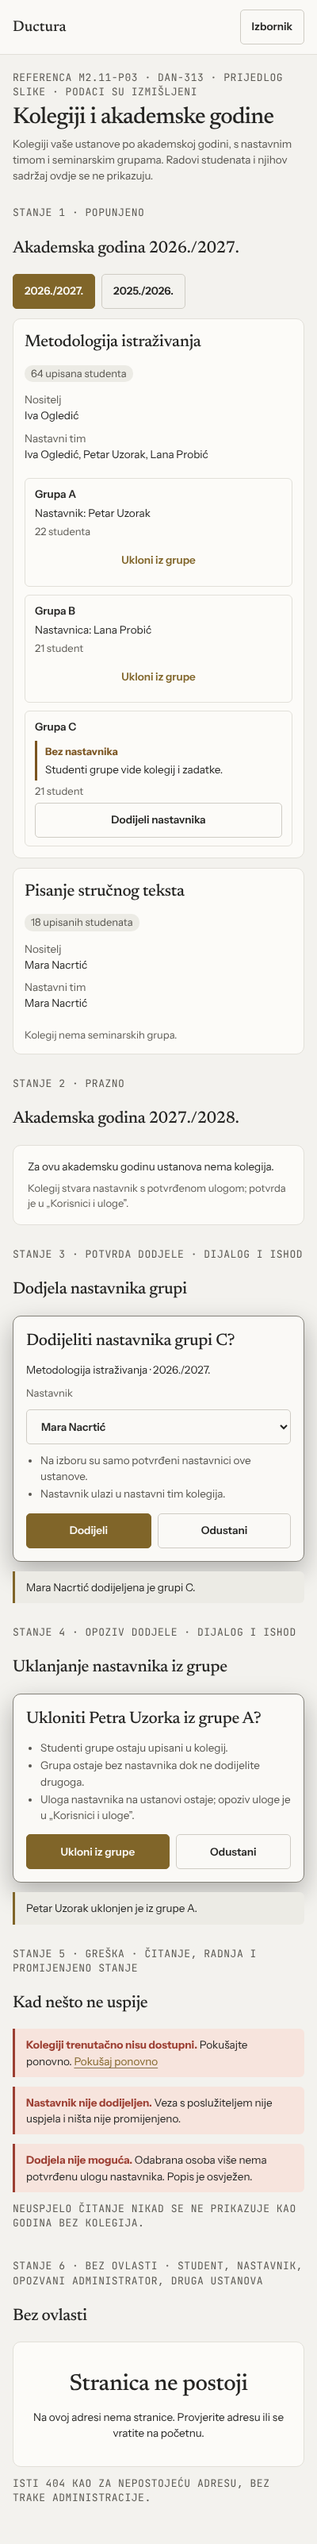
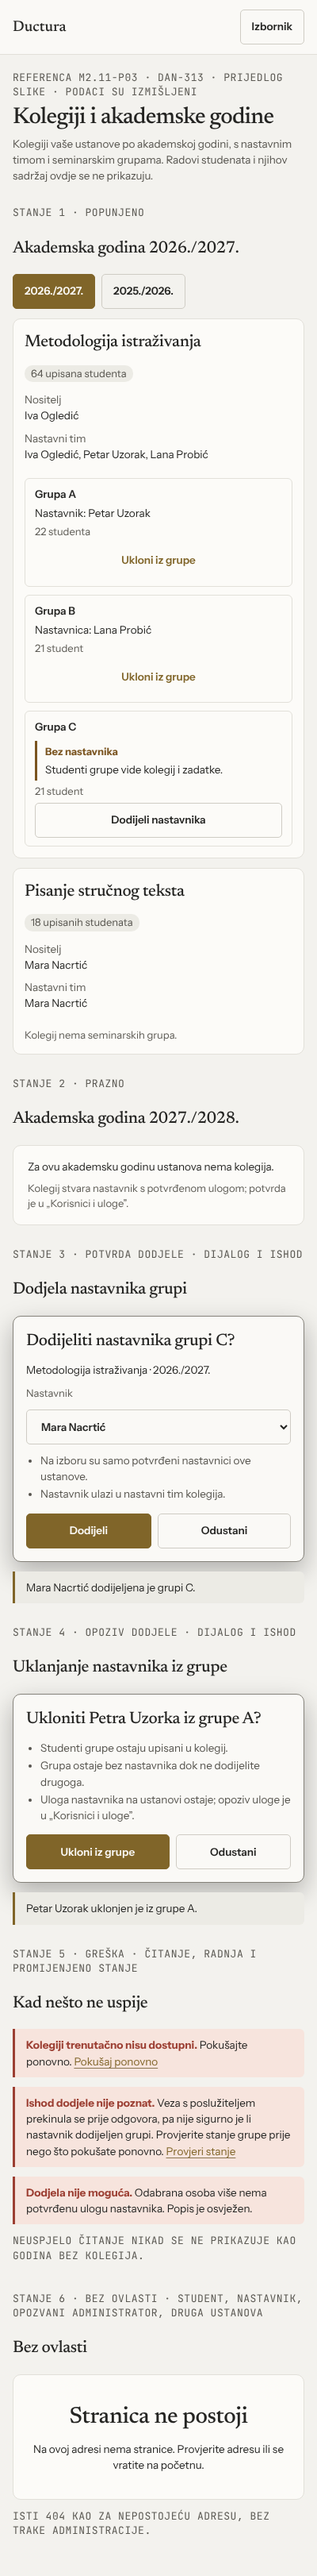
fix: show unknown outcome after a dropped connection in M2.11 references (DAN-313)
Claude-Session: https://claude.ai/code/session_011GCKG9DPbqrNVnZyCmTEnY

diff --git a/docs/design/ductura/m2-reference/a02-korisnici-i-uloge.html b/docs/design/ductura/m2-reference/a02-korisnici-i-uloge.html
@@ -121,10 +121,10 @@
       <p class="alert" role="alert"><strong>Popis korisnika trenutačno nije dostupan.</strong> Pokušajte ponovno. <a href="#">Pokušaj ponovno</a></p>
       <div class="dialog" role="dialog" aria-modal="true" aria-labelledby="d-greska">
         <h3 id="d-greska">Potvrditi ulogu nastavnika za Lanu Probić?</h3>
-        <p class="alert" role="alert"><strong>Uloga nije potvrđena.</strong> Veza s poslužiteljem nije uspjela i ništa nije promijenjeno.</p>
+        <p class="alert" role="alert"><strong>Ishod nije poznat.</strong> Veza s poslužiteljem prekinula se prije odgovora, pa nije sigurno je li uloga potvrđena. Provjerite stanje prije nego što pokušate ponovno.</p>
         <div class="buttons">
-          <button class="btn" type="button">Pokušaj ponovno</button>
-          <button class="btn secondary" type="button">Odustani</button>
+          <button class="btn" type="button">Provjeri stanje</button>
+          <button class="btn secondary" type="button">Zatvori</button>
         </div>
       </div>
       <p class="alert" role="alert"><strong>Potvrda nije moguća.</strong> Ova osoba više ne čeka potvrdu na vašoj ustanovi. Popis je osvježen.</p>

diff --git a/docs/design/ductura/m2-reference/a03-kolegiji-tim-i-grupe.html b/docs/design/ductura/m2-reference/a03-kolegiji-tim-i-grupe.html
@@ -130,7 +130,7 @@
       <div class="ref-tag">Stanje 5 · greška · čitanje, radnja i promijenjeno stanje</div>
       <h2 id="h-greska">Kad nešto ne uspije</h2>
       <p class="alert" role="alert"><strong>Kolegiji trenutačno nisu dostupni.</strong> Pokušajte ponovno. <a href="#">Pokušaj ponovno</a></p>
-      <p class="alert" role="alert"><strong>Nastavnik nije dodijeljen.</strong> Veza s poslužiteljem nije uspjela i ništa nije promijenjeno.</p>
+      <p class="alert" role="alert"><strong>Ishod dodjele nije poznat.</strong> Veza s poslužiteljem prekinula se prije odgovora, pa nije sigurno je li nastavnik dodijeljen grupi. Provjerite stanje grupe prije nego što pokušate ponovno. <a href="#">Provjeri stanje</a></p>
       <p class="alert" role="alert"><strong>Dodjela nije moguća.</strong> Odabrana osoba više nema potvrđenu ulogu nastavnika. Popis je osvježen.</p>
       <p class="ref-tag">Neuspjelo čitanje nikad se ne prikazuje kao godina bez kolegija.</p>
     </section>

diff --git a/docs/design/ductura/m2-reference/README.md b/docs/design/ductura/m2-reference/README.md
@@ -22,7 +22,7 @@ Izvori: `docs/PROGRAM-RAZRADA.md` M2.11 i karta zaslona (A-02, A-03), `docs/engi
 | 2 prazno | „Nitko ne čeka potvrdu uloge.” i „Na ustanovi još nema potvrđenih nastavnika.” |
 | 3 potvrda | dijalog s posljedicama i upisom u revizijski trag, zatim ishod u `role="status"` |
 | 4 opoziv | dijalog s posljedicama (kolegiji ostaju, ponovna prijava vraća osobu na čekanje, revizijski trag), zatim ishod |
-| 5 greška | neuspjelo čitanje s „Pokušaj ponovno”, neuspjela radnja u dijalogu („ništa nije promijenjeno”), promijenjeno stanje („više ne čeka potvrdu … Popis je osvježen.”) |
+| 5 greška | neuspjelo čitanje s „Pokušaj ponovno”, prekinuta veza nakon radnje u dijalogu (ishod nije poznat, „Provjeri stanje” prije ponavljanja), promijenjeno stanje („više ne čeka potvrdu … Popis je osvježen.”) |
 | 6 bez ovlasti | isti 404 kao za nepostojeću adresu, bez trake administracije |
 
 ## Stanja A-03
@@ -33,10 +33,10 @@ Izvori: `docs/PROGRAM-RAZRADA.md` M2.11 i karta zaslona (A-02, A-03), `docs/engi
 | 2 prazno | „Za ovu akademsku godinu ustanova nema kolegija.” |
 | 3 potvrda dodjele | dijalog s izborom koji nudi samo potvrđene nastavnike ustanove (D-204), zatim ishod |
 | 4 opoziv dodjele | uklanjanje nastavnika iz grupe; uloga na ustanovi ostaje, opoziv uloge je u A-02 |
-| 5 greška | neuspjelo čitanje, neuspjela radnja, promijenjeno stanje (odabrana osoba više nema potvrđenu ulogu) |
+| 5 greška | neuspjelo čitanje, prekinuta veza nakon dodjele (ishod nije poznat, „Provjeri stanje”), promijenjeno stanje (odabrana osoba više nema potvrđenu ulogu) |
 | 6 bez ovlasti | isti 404 kao u A-02 |
 
-Neuspjelo čitanje na oba zaslona nikad se ne prikazuje kao prazan popis ni kao nule.
+Neuspjelo čitanje na oba zaslona nikad se ne prikazuje kao prazan popis ni kao nule. Kad se veza prekine nakon radnje, ishod se prikazuje kao nepoznat: referenca ne tvrdi ni da je promjena provedena ni da nije.
 
 ## Snimke
 
